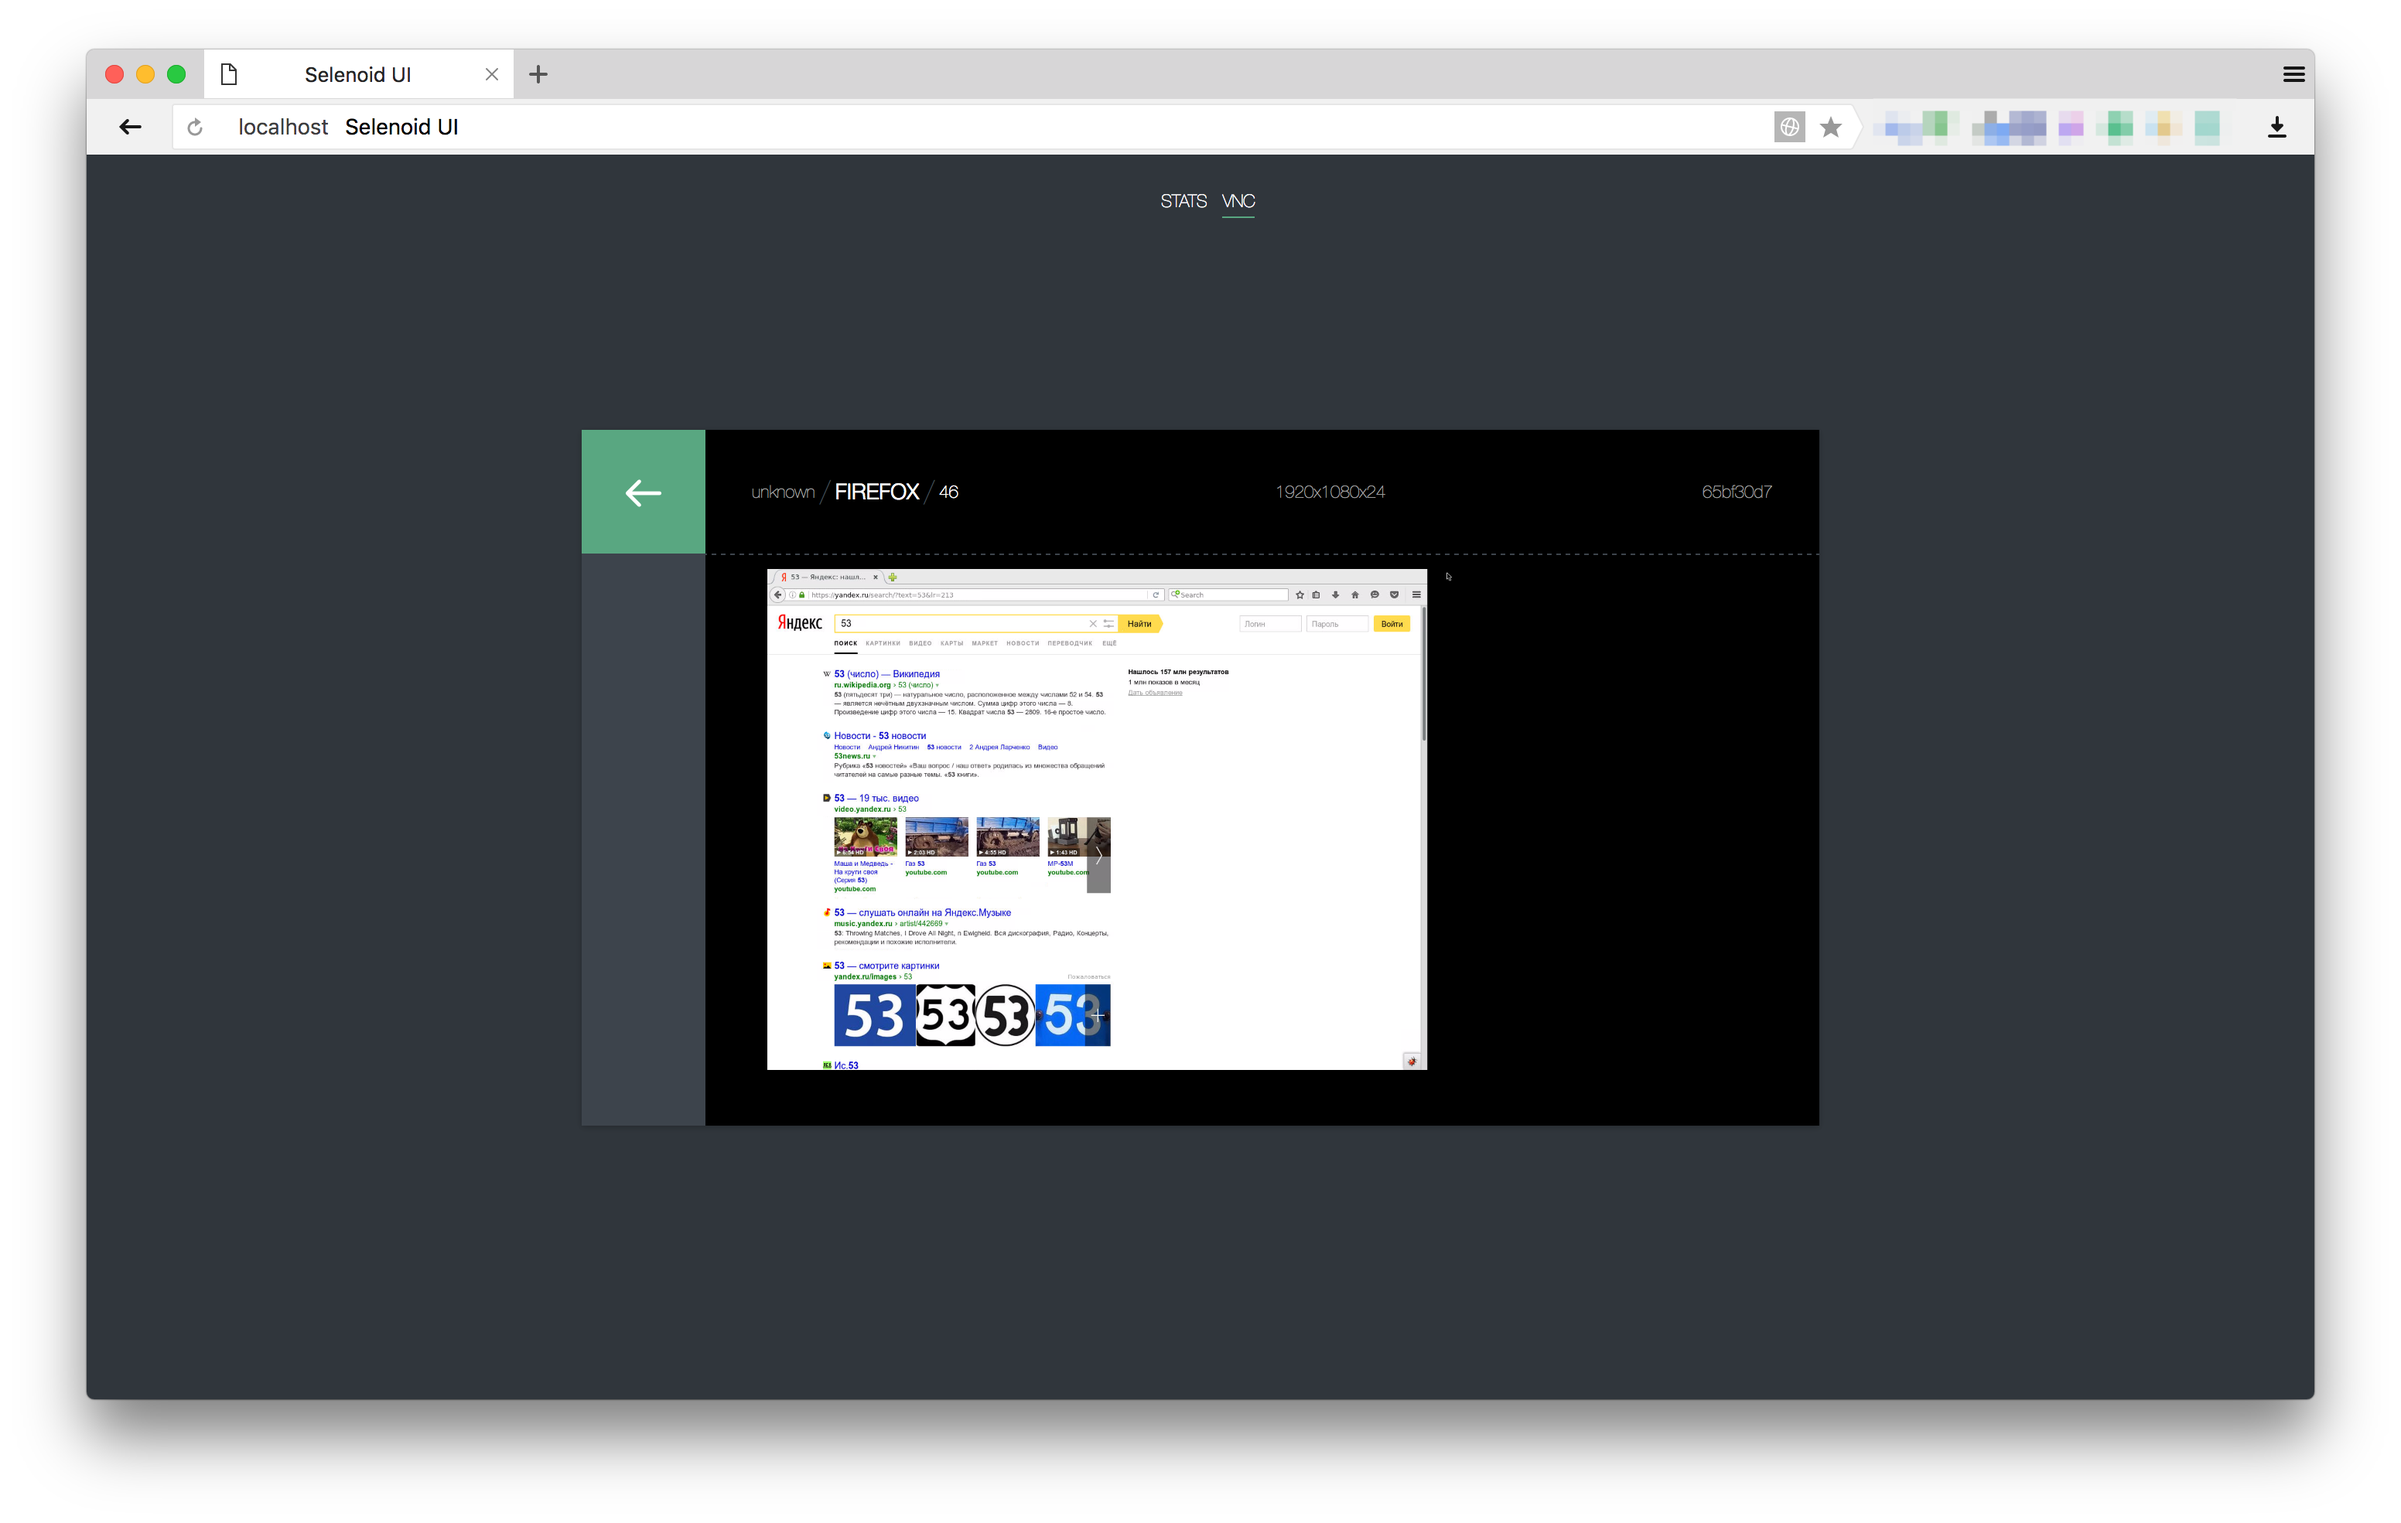
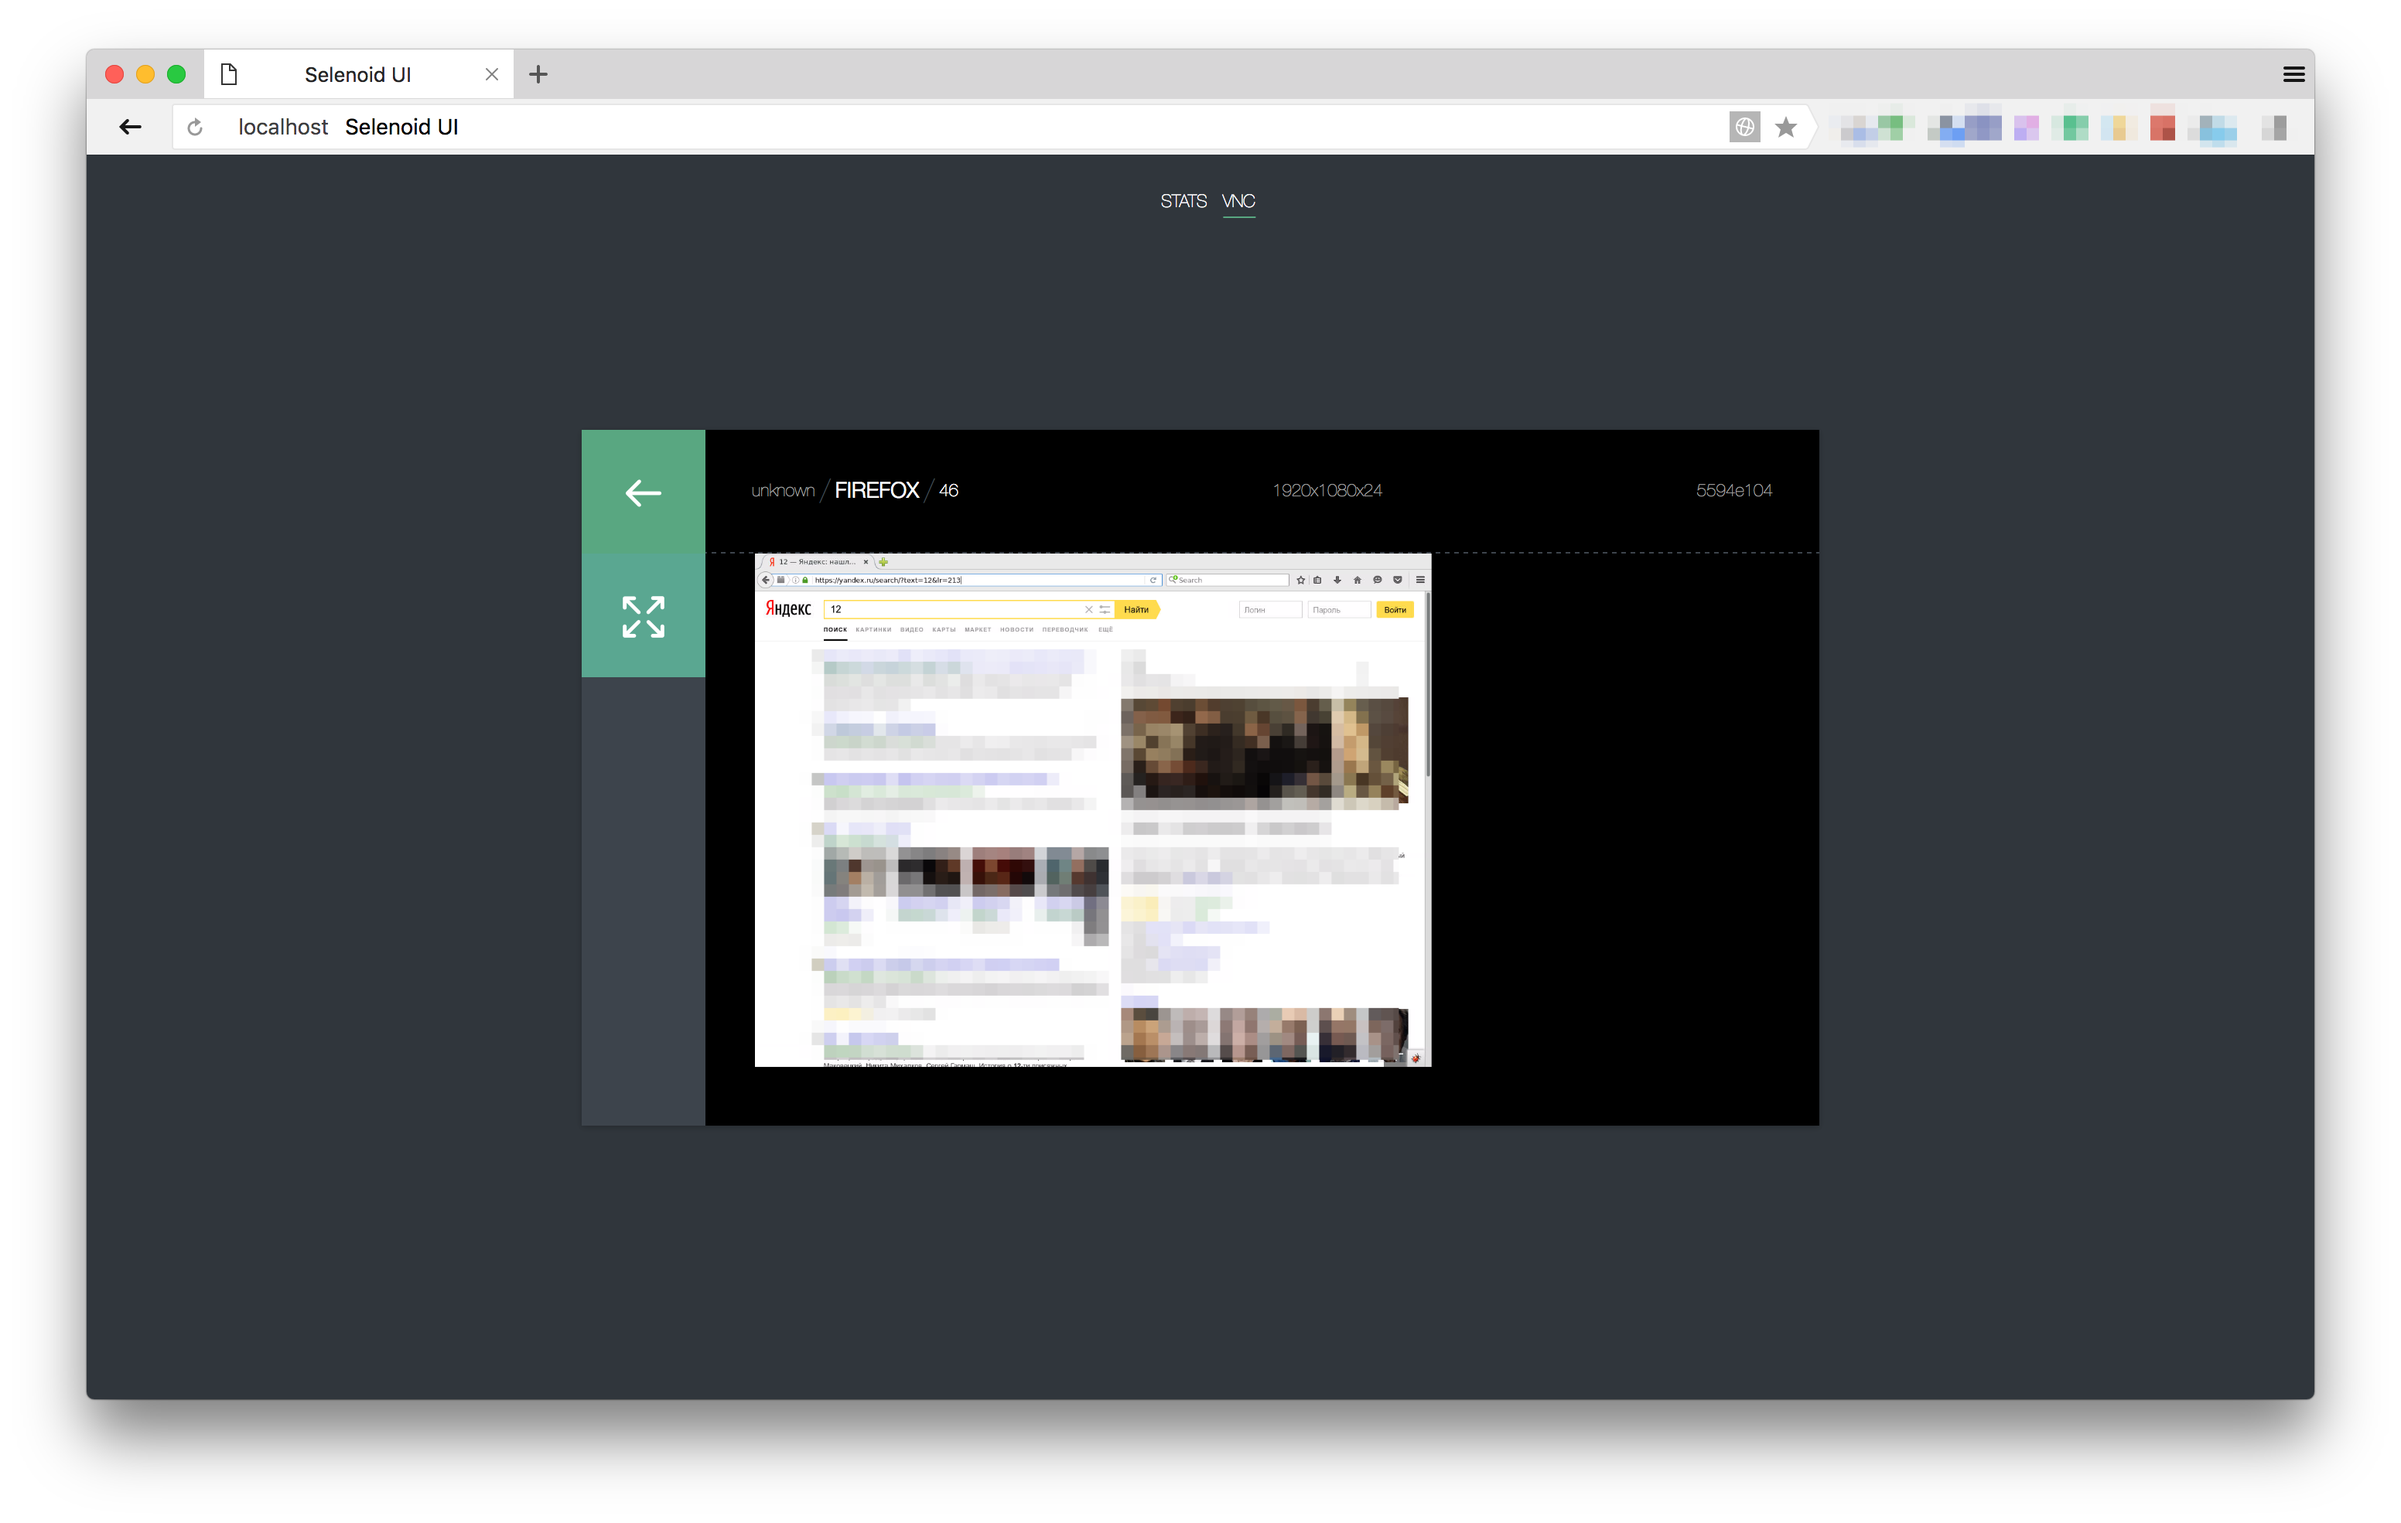
Publishing to gh-pages

Changed region(s): [[0.2188, 0.3096, 0.5938, 0.7122], [0.7188, 0.0619, 0.9688, 0.0929], [0.7188, 0.3096, 0.75, 0.3406]]

diff --git a/latest/index.html b/latest/index.html
@@ -418,6 +418,98 @@ body.book #toc,body.book #preamble,body.book h1.sect0,body.book .sect1>h2{page-b
 .hide-for-print{display:none!important}
 .show-for-print{display:inherit!important}}
 </style>
+<link rel="stylesheet" href="https://cdnjs.cloudflare.com/ajax/libs/font-awesome/4.6.3/css/font-awesome.min.css">
+<style>
+/* Stylesheet for CodeRay to match GitHub theme | MIT License | http://foundation.zurb.com */
+/*pre.CodeRay {background-color:#f7f7f8;}*/
+.CodeRay .line-numbers{border-right:1px solid #d8d8d8;padding:0 0.5em 0 .25em}
+.CodeRay span.line-numbers{display:inline-block;margin-right:.5em;color:rgba(0,0,0,.3)}
+.CodeRay .line-numbers strong{color:rgba(0,0,0,.4)}
+table.CodeRay{border-collapse:separate;border-spacing:0;margin-bottom:0;border:0;background:none}
+table.CodeRay td{vertical-align: top;line-height:1.45}
+table.CodeRay td.line-numbers{text-align:right}
+table.CodeRay td.line-numbers>pre{padding:0;color:rgba(0,0,0,.3)}
+table.CodeRay td.code{padding:0 0 0 .5em}
+table.CodeRay td.code>pre{padding:0}
+.CodeRay .debug{color:#fff !important;background:#000080 !important}
+.CodeRay .annotation{color:#007}
+.CodeRay .attribute-name{color:#000080}
+.CodeRay .attribute-value{color:#700}
+.CodeRay .binary{color:#509}
+.CodeRay .comment{color:#998;font-style:italic}
+.CodeRay .char{color:#04d}
+.CodeRay .char .content{color:#04d}
+.CodeRay .char .delimiter{color:#039}
+.CodeRay .class{color:#458;font-weight:bold}
+.CodeRay .complex{color:#a08}
+.CodeRay .constant,.CodeRay .predefined-constant{color:#008080}
+.CodeRay .color{color:#099}
+.CodeRay .class-variable{color:#369}
+.CodeRay .decorator{color:#b0b}
+.CodeRay .definition{color:#099}
+.CodeRay .delimiter{color:#000}
+.CodeRay .doc{color:#970}
+.CodeRay .doctype{color:#34b}
+.CodeRay .doc-string{color:#d42}
+.CodeRay .escape{color:#666}
+.CodeRay .entity{color:#800}
+.CodeRay .error{color:#808}
+.CodeRay .exception{color:inherit}
+.CodeRay .filename{color:#099}
+.CodeRay .function{color:#900;font-weight:bold}
+.CodeRay .global-variable{color:#008080}
+.CodeRay .hex{color:#058}
+.CodeRay .integer,.CodeRay .float{color:#099}
+.CodeRay .include{color:#555}
+.CodeRay .inline{color:#000}
+.CodeRay .inline .inline{background:#ccc}
+.CodeRay .inline .inline .inline{background:#bbb}
+.CodeRay .inline .inline-delimiter{color:#d14}
+.CodeRay .inline-delimiter{color:#d14}
+.CodeRay .important{color:#555;font-weight:bold}
+.CodeRay .interpreted{color:#b2b}
+.CodeRay .instance-variable{color:#008080}
+.CodeRay .label{color:#970}
+.CodeRay .local-variable{color:#963}
+.CodeRay .octal{color:#40e}
+.CodeRay .predefined{color:#369}
+.CodeRay .preprocessor{color:#579}
+.CodeRay .pseudo-class{color:#555}
+.CodeRay .directive{font-weight:bold}
+.CodeRay .type{font-weight:bold}
+.CodeRay .predefined-type{color:inherit}
+.CodeRay .reserved,.CodeRay .keyword {color:#000;font-weight:bold}
+.CodeRay .key{color:#808}
+.CodeRay .key .delimiter{color:#606}
+.CodeRay .key .char{color:#80f}
+.CodeRay .value{color:#088}
+.CodeRay .regexp .delimiter{color:#808}
+.CodeRay .regexp .content{color:#808}
+.CodeRay .regexp .modifier{color:#808}
+.CodeRay .regexp .char{color:#d14}
+.CodeRay .regexp .function{color:#404;font-weight:bold}
+.CodeRay .string{color:#d20}
+.CodeRay .string .string .string{background:#ffd0d0}
+.CodeRay .string .content{color:#d14}
+.CodeRay .string .char{color:#d14}
+.CodeRay .string .delimiter{color:#d14}
+.CodeRay .shell{color:#d14}
+.CodeRay .shell .delimiter{color:#d14}
+.CodeRay .symbol{color:#990073}
+.CodeRay .symbol .content{color:#a60}
+.CodeRay .symbol .delimiter{color:#630}
+.CodeRay .tag{color:#008080}
+.CodeRay .tag-special{color:#d70}
+.CodeRay .variable{color:#036}
+.CodeRay .insert{background:#afa}
+.CodeRay .delete{background:#faa}
+.CodeRay .change{color:#aaf;background:#007}
+.CodeRay .head{color:#f8f;background:#505}
+.CodeRay .insert .insert{color:#080}
+.CodeRay .delete .delete{color:#800}
+.CodeRay .change .change{color:#66f}
+.CodeRay .head .head{color:#f4f}
+</style>
 </head>
 <body class="article toc2 toc-left">
 <div id="header">
@@ -430,13 +522,17 @@ body.book #toc,body.book #preamble,body.book h1.sect0,body.book .sect1>h2{page-b
 <div id="toc" class="toc2">
 <div id="toctitle">Table of Contents</div>
 <ul class="sectlevel1">
-<li><a href="#_features_list">Features list:</a>
+<li><a href="#_features_list">1. Features list:</a>
 <ul class="sectlevel2">
-<li><a href="#_stats">Stats</a></li>
-<li><a href="#_vnc">VNC</a></li>
+<li><a href="#_stats">1.1. Stats</a></li>
+<li><a href="#_vnc">1.2. VNC</a></li>
 </ul>
 </li>
-<li><a href="#_contributing_development">Contributing &amp; Development</a></li>
+<li><a href="#_contributing_development">2. Contributing &amp; Development</a>
+<ul class="sectlevel2">
+<li><a href="#_documentation">2.1. Documentation</a></li>
+</ul>
+</li>
 </ul>
 </div>
 </div>
@@ -446,39 +542,56 @@ body.book #toc,body.book #preamble,body.book h1.sect0,body.book .sect1>h2{page-b
 <div class="paragraph">
 <p>This reference for version: <em>latest</em></p>
 </div>
+<div class="paragraph">
+<p>Simple status page with UI updates by SSE,
+backed by constant polling of status handle
+of <a href="https://github.com/aerokube/selenoid">selenoid</a> on small go backend.
+Source code available at <a href="https://github.com/aerokube/selenoid-ui">aerokube/selenoid-ui GitHub repository</a>.</p>
+</div>
 </div>
 </div>
 <div class="sect1">
-<h2 id="_features_list"><a class="anchor" href="#_features_list"></a>Features list:</h2>
+<h2 id="_features_list"><a class="anchor" href="#_features_list"></a>1. Features list:</h2>
 <div class="sectionbody">
 <div class="sect2">
-<h3 id="_stats"><a class="anchor" href="#_stats"></a>Stats</h3>
+<h3 id="_stats"><a class="anchor" href="#_stats"></a>1.1. Stats</h3>
 <div class="paragraph">
-<p>Shows current quota usage, pending browsers and queue.</p>
+<p>Shows current quota usage, pending browsers and queue.
+Gets updates via SSE, so no need to refresh browser to see what happens.</p>
+</div>
+<div class="paragraph">
+<div class="title">Stats</div>
+<p><span class="image"><img src="img/ui.png" alt="ui"></span></p>
 </div>
 </div>
 <div class="sect2">
-<h3 id="_vnc"><a class="anchor" href="#_vnc"></a>VNC</h3>
+<h3 id="_vnc"><a class="anchor" href="#_vnc"></a>1.2. VNC</h3>
 <div class="paragraph">
 <p>If you get browser from selenoid with <code>enableVNC=true</code> capability, you can see list of available screens:</p>
 </div>
 <div class="paragraph">
+<div class="title">VNC list</div>
 <p><span class="image"><img src="img/vnc-list.png" alt="ui"></span></p>
 </div>
 <div class="paragraph">
 <p>VNC allows to see and interact with browser:</p>
 </div>
 <div class="paragraph">
+<div class="title">Exact VNC session</div>
 <p><span class="image"><img src="img/vnc.png" alt="ui"></span></p>
 </div>
 <div class="paragraph">
-<p>Please refer to selenoid documentation about VNC usage.</p>
+<div class="title">Fullscreen mode</div>
+<p><span class="image"><img src="img/vnc-fs.png" alt="ui"></span></p>
+</div>
+<div class="paragraph">
+<p>Please refer to <a href="http://aerokube.com/selenoid/latest/#_live_browser_screen">selenoid documentation</a> about VNC usage.</p>
 </div>
 </div>
 </div>
 </div>
 <div class="sect1">
-<h2 id="_contributing_development"><a class="anchor" href="#_contributing_development"></a>Contributing &amp; Development</h2>
+<h2 id="_contributing_development"><a class="anchor" href="#_contributing_development"></a>2. Contributing &amp; Development</h2>
 <div class="sectionbody">
 <div class="paragraph">
 <p>1) Ensure you have <a href="https://github.com/yarnpkg/yarn">yarn</a> and <a href="https://github.com/elazarl/go-bindata-assetfs">go-bindata-assetfs</a> installed</p>
@@ -495,7 +608,7 @@ body.book #toc,body.book #preamble,body.book h1.sect0,body.book .sect1>h2{page-b
 </div>
 <div class="listingblock">
 <div class="content">
-<pre class="highlight"><code class="language-bash" data-lang="bash">$ go generate ./web ./...</code></pre>
+<pre class="CodeRay highlight"><code data-lang="bash">$ go generate ./web ./...</code></pre>
 </div>
 </div>
 <div class="paragraph">
@@ -503,7 +616,7 @@ body.book #toc,body.book #preamble,body.book h1.sect0,body.book .sect1>h2{page-b
 </div>
 <div class="listingblock">
 <div class="content">
-<pre class="highlight"><code class="language-bash" data-lang="bash">$ go build</code></pre>
+<pre class="CodeRay highlight"><code data-lang="bash">$ go build</code></pre>
 </div>
 </div>
 <div class="paragraph">
@@ -511,8 +624,21 @@ body.book #toc,body.book #preamble,body.book h1.sect0,body.book .sect1>h2{page-b
 </div>
 <div class="listingblock">
 <div class="content">
-<pre class="highlight"><code class="language-bash" data-lang="bash">$ GOOS=linux GOARCH=amd64 CGO_ENABLED=0 go build
+<pre class="CodeRay highlight"><code data-lang="bash">$ GOOS=linux GOARCH=amd64 CGO_ENABLED=0 go build
 $ docker build -t selenoid-ui:latest .</code></pre>
+</div>
+</div>
+<div class="sect2">
+<h3 id="_documentation"><a class="anchor" href="#_documentation"></a>2.1. Documentation</h3>
+<div class="paragraph">
+<p>Locally can be generated with:</p>
+</div>
+<div class="listingblock">
+<div class="content">
+<pre class="CodeRay highlight"><code data-lang="bash">$ docker run --rm -v `pwd`/docs/:/documents/      \
+    asciidoctor/docker-asciidoctor                \
+    asciidoctor -D /documents/output/ index.adoc</code></pre>
+</div>
 </div>
 </div>
 </div>
@@ -521,7 +647,7 @@ $ docker build -t selenoid-ui:latest .</code></pre>
 <div id="footer">
 <div id="footer-text">
 Version latest<br>
-Last updated 2017-05-09 21:32:21 UTC
+Last updated 2017-05-09 22:00:18 UTC
 </div>
 </div>
 </body>
